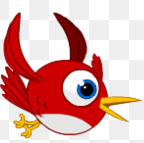
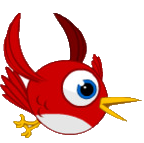
Mi primera animacion en movimieto

diff --git a/interfaz.cpp b/interfaz.cpp
@@ -7,7 +7,10 @@ interfaz::interfaz(QWidget *parent)
 {
     ui->setupUi(this);
 
-    ui->pushButton->setText("Enviar");
+    ui->detenerse->setText("detenerse"); //Este boton no se encuentra en en la escena
+    ui->derecha->setText("derecha");
+
+
 
     escenario = new QGraphicsScene(); // Aqui estoy inicializando el objeto escenario, asignandole memoria
                                       // ya que yo lo cree en el hip y no en el stack.
@@ -15,37 +18,90 @@ interfaz::interfaz(QWidget *parent)
     //El escenario en toda la interfaz.
 
 
+
+
+
     //AHORA VOY A INCLUIR ELEMENTOS EN EL ESCENARIO//
     escenario->addRect(0,0,100,100); // (x,y,ancho,altura) esas dimensiones son en pixeles
 
-    escenario->addEllipse(0,0,100,100);
-
-    auto *rectangulo = escenario->addRect(0,200,100,100);
-
-    imagen = new QGraphicsPixmapItem();
-    imagen->setPixmap(QPixmap(":/imagenes/ave1.png"));
-    imagen->setPos(120,250);
-    escenario->addItem(imagen);
 
 
 
-    //Si quiero que la figura que voy a agregar tenga un contorno personalizado le paso un Qpen.
+    QPen contorno(Qt::green,5,Qt::SolidLine); //Creo un contorno que puedo utilizar en varias figu
+    QBrush pintura(Qt::red,Qt::SolidPattern); //Pintura para ser utilizada por cualquier figu.
 
-    QPen contorno(Qt::red, 3, Qt::DashDotLine, Qt::RoundCap, Qt::RoundJoin);
+    escenario->addEllipse(0,0,100,100, contorno, pintura);
+
+
+
+
+    //Modifico color del contorno y color de pintura para que sean usadas en otra figura.
+    contorno.setColor(Qt::red);
+    pintura.setColor(Qt::black);
+
+    QGraphicsRectItem *rectangulo = escenario->addRect(290,0,100,100, contorno, pintura);
+
+    rectangulo->setPos(292,0); //Aqui cambio la posicion que le puse inicialmente a
+                                 //la figura que acave de guardar en *rectangulo.
+
+
+
+
+    /* ################## AHORA PONDRE UNA IMAGEN EN LA ESCENA ##################### */
+
+    rutas.push_back(":/imagenes/ave1.png");
+    rutas.push_back(":/imagenes/ave2.png");
+    rutas.push_back(":/imagenes/ave3.png");
+    rutas.push_back(":/imagenes/ave4.png");
+    rutas.push_back(":/imagenes/ave5.png");
+    rutas.push_back(":/imagenes/ave6.png");
+    rutas.push_back(":/imagenes/ave7.png");
+    rutas.push_back(":/imagenes/ave8.png");
+    rutas.push_back(":/imagenes/ave7.png");
+    rutas.push_back(":/imagenes/ave6.png");
+    rutas.push_back(":/imagenes/ave5.png");
+    rutas.push_back(":/imagenes/ave4.png");
+    rutas.push_back(":/imagenes/ave3.png");
+    rutas.push_back(":/imagenes/ave2.png");
+
+    pajaro = new QGraphicsPixmapItem();
+    pajaro->setPixmap(QPixmap(rutas.at(0)));
+    pajaro->setPos(posicionX, posicionY);
+    escenario->addItem(pajaro);
+
+    /* ################## LISTO! YA ESTA LA IMAGEN PUESTA EN LA ESCENA ############### */
+
+
+
+    /* ########### VAMOS A CONECTAR UNA SEÑAL CON CON UN SLOT ############# */
+    reloj1 = new QTimer();
+    connect(reloj1, SIGNAL(timeout()), this, SLOT(on_derecha_clicked()));
+    //reloj1->start(70);
+    /* ########### FIN ######################## FIN ###################### */
+
+
+
+    /*NOTA: Un contorno puede tener todos los siguientes atributos.*/
+
+    QPen contorno0(Qt::red, 3, Qt::DashDotLine, Qt::RoundCap, Qt::RoundJoin);
 
     escenario->addRect(120,0,50,50,contorno,Qt::red);
 
+    /* FIN DE NOTA */
 
-    QPen contorno1(Qt::blue, 5, Qt::SolidLine, Qt::RoundCap, Qt::RoundJoin);
-    //Y si ademas queremos agregarle a la figura un color.
 
-    QString ruta = "colo.png";
+
+
+    /* ######### SI QUEREMOS QUE LA PINTURA DE UN RECTANGULO SEA UNA IMAGEN ########### */
+
+    QString ruta = "../intergrafica/imagenes/bloque.png";
     QImage im(ruta);
-
     QBrush brocha(im);
-    //brocha.setColor(Qt::green);
 
-    escenario->addRect(130,130,80,80,contorno1, brocha);
+    contorno0.setStyle(Qt::SolidLine);
+    escenario->addRect(200,0,80,80,contorno0, brocha);
+
+    /* ######### LISTO! ESE RECTANGULO QUEDO CON LA IMAN DE colo.png ADENTRO ########### */
 
 
 
@@ -54,14 +110,36 @@ interfaz::interfaz(QWidget *parent)
     ui->graphicsView->setScene(escenario);
 }
 
+
+
+
+
 interfaz::~interfaz()
 {
     delete ui;
 }
 
 
-void interfaz::on_pushButton_clicked()
+
+static int contador = 0;
+void interfaz::on_derecha_clicked()
 {
-    ui->textBrowser->setText("Este rectacgulo no esta dentro de la escena sino dentro del graphicview");
+    reloj1->start(30);
+    posicionX += 5;
+    posicionY += 0;
+
+    pajaro->setPixmap(QPixmap(rutas.at(contador)));
+
+    pajaro->setPos(posicionX, posicionY);
+
+    contador++;
+
+    if(contador >= 14) contador = 0;
+}
+
+
+void interfaz::on_detenerse_clicked()
+{
+    reloj1->stop();
 
 }

diff --git a/interfaz.h b/interfaz.h
@@ -6,6 +6,8 @@
 #include <QGraphicsPixmapItem>
 #include <QObject>
 #include <QImage>
+#include <QVector>
+#include <QTimer>
 
 QT_BEGIN_NAMESPACE
 namespace Ui { class interfaz; }
@@ -20,13 +22,19 @@ public:
     ~interfaz();
 
 private slots:
-    void on_pushButton_clicked();
+    void on_derecha_clicked();
+    void on_detenerse_clicked();
 
 private:
     Ui::interfaz *ui;
 
     QGraphicsScene *escenario; // Aqui estoy creando el escenario en el hip.
 
-    QGraphicsPixmapItem *imagen;
+    QGraphicsPixmapItem *pajaro;
+    int posicionX = 120, posicionY = 250;
+
+    QVector<QString> rutas;
+
+    QTimer *reloj1;
 };
 #endif // INTERFAZ_H
